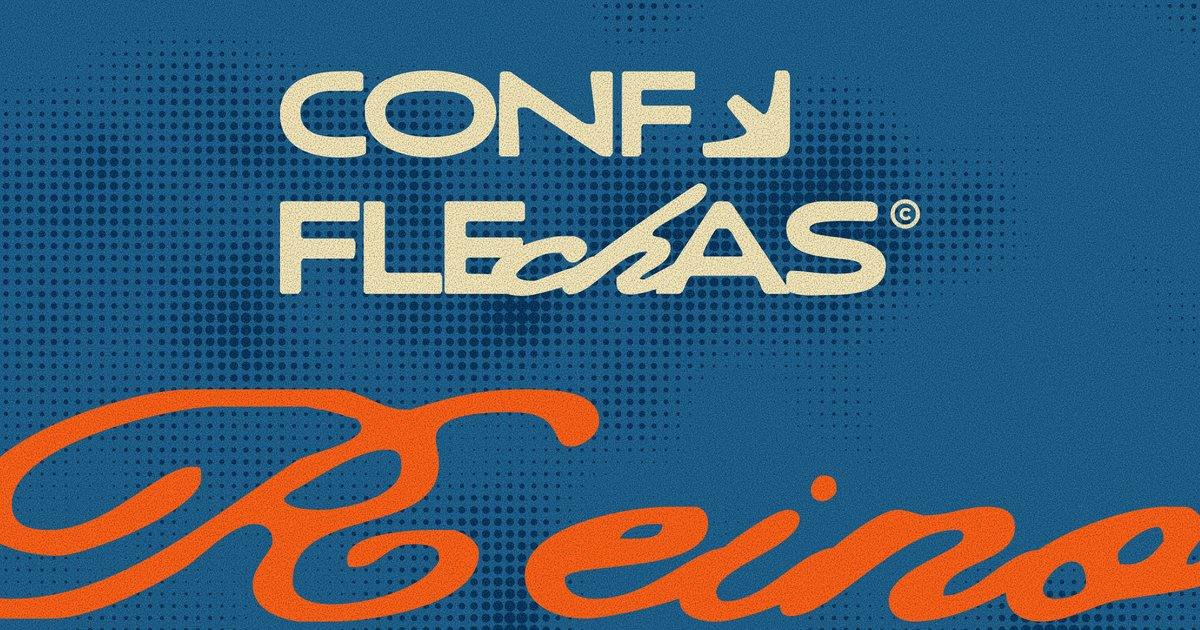
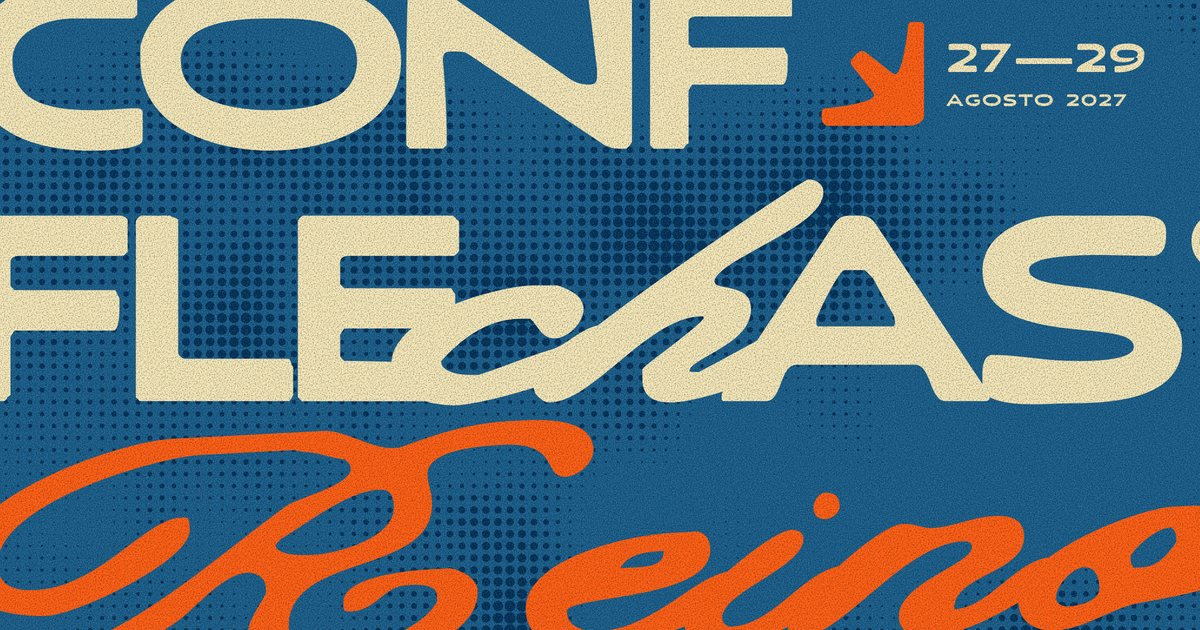
Thumb do link: tudo grande e vazando, flechinha com a data no lugar dela
Claude-Session: https://claude.ai/code/session_01CBGocxTkkwjbjozrdacVym

diff --git a/index.html b/index.html
@@ -10,8 +10,8 @@
 <meta property="og:title" content="Conferência Flechas 2027 · Reino">
 <meta property="og:description" content="27 a 29 de agosto na Igreja Batista do Bacacheri, Curitiba. Garanta sua vaga.">
 <meta property="og:url" content="https://conferenciaflechas.com.br/">
-<meta property="og:image" content="https://conferenciaflechas.com.br/img/og.jpg?v=5">
-<meta property="og:image:secure_url" content="https://conferenciaflechas.com.br/img/og.jpg?v=5">
+<meta property="og:image" content="https://conferenciaflechas.com.br/img/og.jpg?v=6">
+<meta property="og:image:secure_url" content="https://conferenciaflechas.com.br/img/og.jpg?v=6">
 <meta property="og:image:type" content="image/jpeg">
 <meta property="og:image:width" content="1200">
 <meta property="og:image:height" content="630">
@@ -19,7 +19,7 @@
 <meta name="twitter:card" content="summary_large_image">
 <meta name="twitter:title" content="Conferência Flechas 2027 · Reino">
 <meta name="twitter:description" content="27 a 29 de agosto na Igreja Batista do Bacacheri, Curitiba.">
-<meta name="twitter:image" content="https://conferenciaflechas.com.br/img/og.jpg?v=5">
+<meta name="twitter:image" content="https://conferenciaflechas.com.br/img/og.jpg?v=6">
 <link rel="canonical" href="https://conferenciaflechas.com.br/">
 <link rel="icon" href="img/favicon.svg" type="image/svg+xml">
 <style>:root{padding-top:env(safe-area-inset-top,0px);padding-bottom:env(safe-area-inset-bottom,0px)}body{margin:0}img{max-width:100%}[hidden]{display:none!important}</style>
